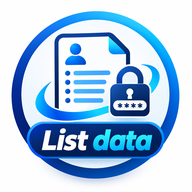
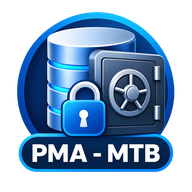
Add files via upload

diff --git a/index.html b/index.html
@@ -288,7 +288,7 @@
   <!-- LOCK SCREEN -->
   <div id="lock">
     <div class="lock-mark">
-      <img src="icons/icon-512.png" alt="List Data logo">
+      <img src="icons/icon-512.png" alt="PMA - MTB logo">
     </div>
     <div class="dev-credit">App Developer by Adi Nugraha - 2026</div>
     <div class="badge-enc">
